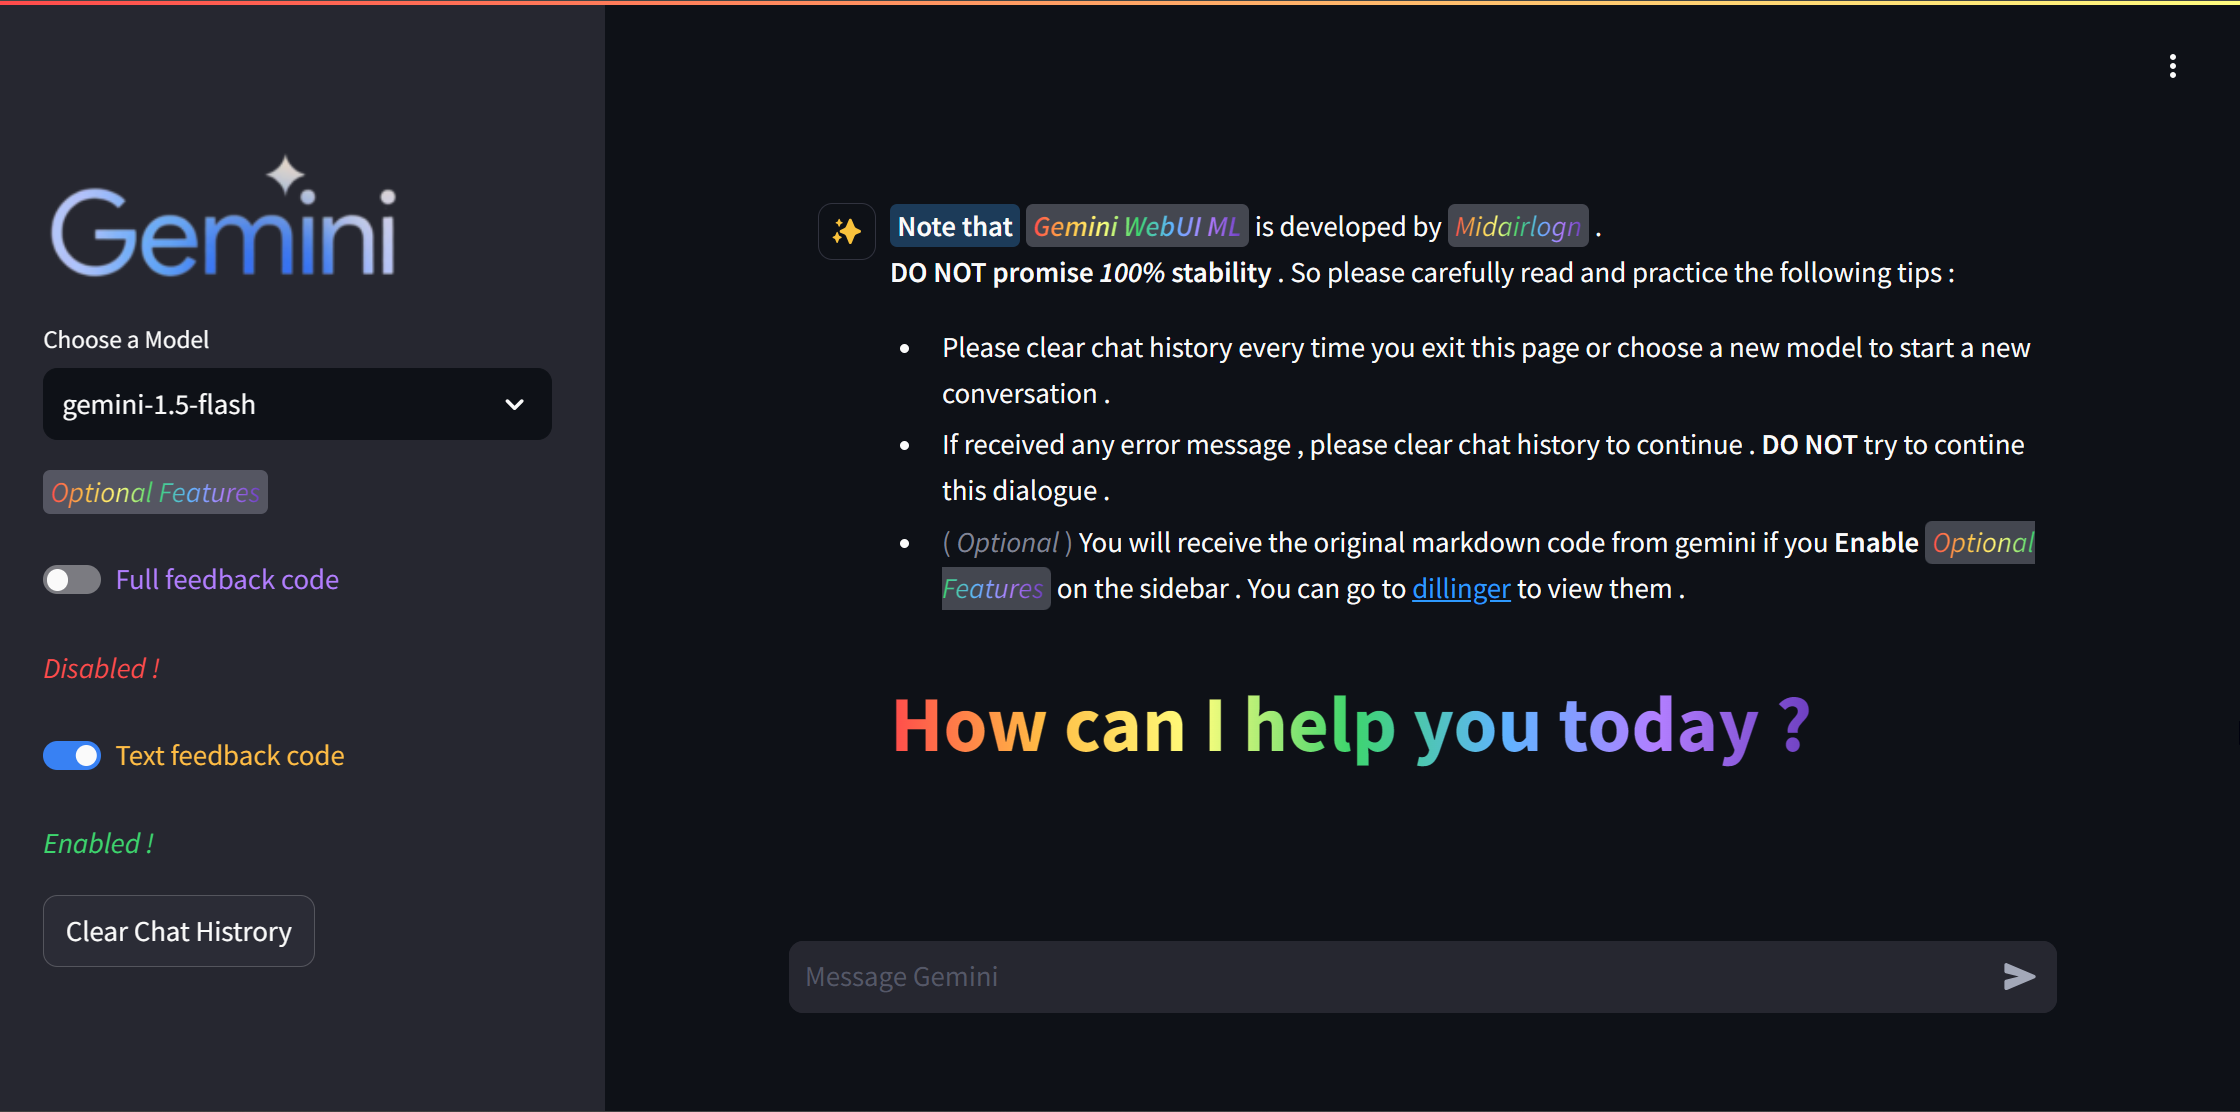
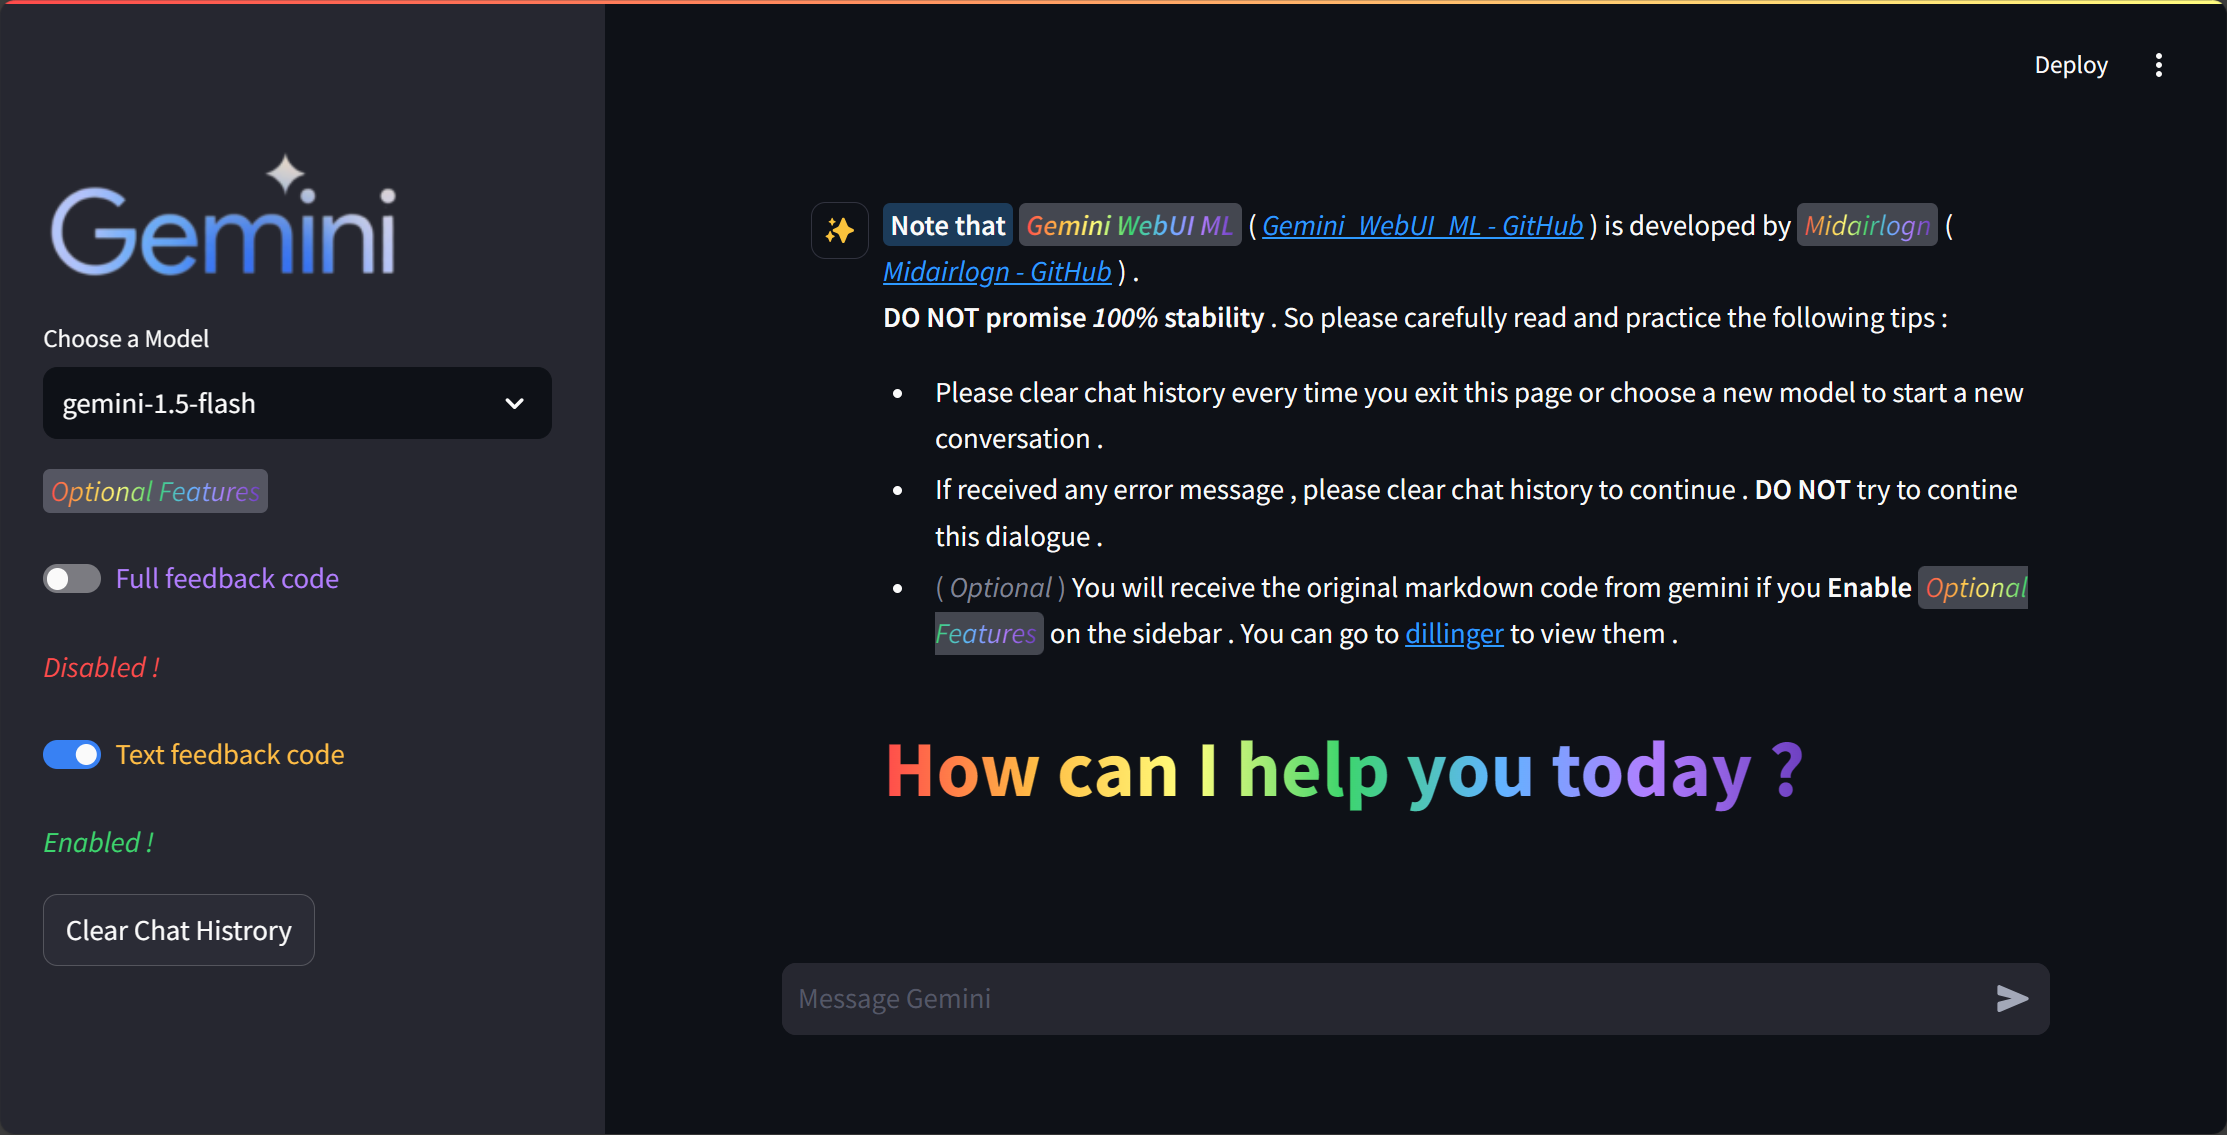
Add files via upload

diff --git a/web_chat_ml.py b/web_chat_ml.py
@@ -1,0 +1,107 @@
+# Edited and polished by [Midairlogn](https://github.com/midairlogn) .
+
+
+import os
+import io
+import streamlit as st
+import google.generativeai as genai
+from dotenv import load_dotenv
+
+load_dotenv()
+
+mldefult_initial_prompt = ''' :blue-background[ **Note that** ] :grey-background[ :rainbow[ **_Gemini WebUI ML_** ] ] ( [*Gemini_WebUI_ML - GitHub*](https://github.com/midairlogn/Gemini_WebUI_ML "Gemini_WebUI_ML - GitHub") ) is developed by :grey-background[ :rainbow[ *Midairlogn* ] ] ( [*Midairlogn - GitHub*](https://github.com/midairlogn "Midairlogn - GitHub") ) .   
+    **DO NOT promise *100%* stability** . So please carefully read and practice the following tips :  
+    - Please clear chat history every time you exit this page or choose a new model to start a new conversation .  
+    - If received any error message , please clear chat history to continue . **DO NOT** try to contine this dialogue .   
+    - :grey[ ( *Optional* ) ] You will receive the original markdown code from gemini if you **Enable** :grey-background[ :rainbow[ *Optional Features* ] ] on the sidebar . You can go to [dillinger](https://dillinger.io/ "dillinger") to view them .   
+    
+    # :rainbow[ How can I help you today ? ]   '''
+
+mldefult_full_opt_status = False
+mldefult_text_opt_status = True
+
+#sets the avatar for user as well as the bot
+USER_AVATAR = "👤"
+BOT_AVATAR = "✨"
+image_path = "Google-Gemini-AI-Logo.png"
+
+
+#private key for gemini.
+private_key = os.getenv("GOOGLE_API_KEY")
+genai.configure(api_key=private_key)
+
+
+#conifgs the bar 
+st.set_page_config(
+    page_title = "Gemini WebUI ML",
+    page_icon=":sparkle",
+    layout="centered"
+)
+
+#side bar components
+with st.sidebar:
+    st.image(image_path , width = 200)
+    select_model = st.sidebar.selectbox('Choose a Model' , ['gemini-1.5-flash' , 'gemini-1.5-pro' , 'gemini-1.0-pro' , 'gemini-pro' , 'gemini-pro-vision'] , key='select_model')
+    if select_model == 'gemini-1.5-flash':
+        model = genai.GenerativeModel('gemini-1.5-flash')
+    if select_model == 'gemini-1.5-pro':
+        model = genai.GenerativeModel('gemini-1.5-pro')
+    if select_model == 'gemini-1.0-pro':
+        model = genai.GenerativeModel('gemini-1.0-pro')
+    if select_model == 'gemini-pro':
+        model = genai.GenerativeModel('gemini-pro')
+    if select_model == 'gemini-pro-vision':
+        model_vision = genai.GenerativeModel('gemini-pro-vision')
+
+with st.sidebar:
+    st.markdown(" :grey-background[ :rainbow[ *Optional Features* ] ] ")
+    full_opt = st.toggle(":violet[ Full feedback code ]",value = mldefult_full_opt_status )
+    if ( full_opt ):
+        st.markdown(" :green[ *Enabled !* ] ")
+    else :
+        st.markdown(" :red[ *Disabled !* ] ")
+    text_opt = st.toggle(":orange[ Text feedback code ]",value = mldefult_text_opt_status )
+    if ( text_opt ):
+        st.markdown(" :green[ *Enabled !* ] ")
+    else :
+        st.markdown(" :red[ *Disabled !* ] ")
+
+#role swap after every prompt
+def role_swap(user_role):
+    if user_role == "model":
+        return "assistant"
+    else:
+        return user_role
+
+#initialising chat.
+if "chat_session" not in st.session_state:
+    st.session_state.chat_session = model.start_chat(history=[])
+    initial_prompt = mldefult_initial_prompt
+    st.chat_message("assistant" , avatar = BOT_AVATAR).markdown(initial_prompt)
+
+#clearing the chat history
+def clear_chat():
+    initial_prompt = mldefult_initial_prompt
+    st.session_state.chat_session = model.start_chat(history=[])
+    st.chat_message("assistant" , avatar = BOT_AVATAR).markdown(initial_prompt)
+st.sidebar.button('Clear Chat Histrory',on_click=clear_chat) 
+
+#displays the history accordingly
+for message in st.session_state.chat_session.history:
+    with st.chat_message(role_swap(message.role),avatar=BOT_AVATAR if message.role == "model" else USER_AVATAR):
+         st.markdown(message.parts[0].text)
+
+#main prompt logic.
+user_prompt = st.chat_input("Message Gemini")
+if user_prompt:
+    st.chat_message("user",avatar=USER_AVATAR).markdown(user_prompt)
+    gemini_response = st.session_state.chat_session.send_message(user_prompt)
+    with st.chat_message("assistant",avatar=BOT_AVATAR):
+        if ( full_opt ):  
+            st.markdown(" :grey-background[ :rainbow[ *Optional Features :* ] ] :violet[ Full feedback code : ] ")
+            st.code(gemini_response , language='markdown')
+        if ( text_opt ):
+            st.markdown(" :grey-background[ :rainbow[ *Optional Features :* ] ] :orange[ Text feedback code : ] ")
+            st.code(gemini_response.text , language='markdown')
+        st.markdown(" :grey-background[ :rainbow[ Gemini's **text** feedback ( *Markdown On* ) ] ] ")
+        st.markdown(gemini_response.text)

diff --git a/README.md b/README.md
@@ -1,0 +1,66 @@
+
+# ✨Gemini-WebUI-ML✨
+
+Original code : https://github.com/lgsurith/Gemini_Web_UI  
+
+Edited and polished by [*Midairlogn*](https://github.com/midairlogn) .
+
+This captivating Streamlit application harnesses the power of Gemini's API key to forge an immersive chatbot that elevates user interactions to new heights. Its intuitive interface empowers users to engage in natural, free-flowing conversations with the chatbot, leveraging Gemini's robust natural language processing capabilities.
+
+Through the seamless integration of Gemini's API key, the chatbot boasts an unparalleled knowledge base and the remarkable ability to engage in meaningful conversations. It effortlessly answers user queries, provides factual information, offers assistance, or simply engages in casual banter, mimicking human-like interactions.
+
+## Preparation : Gemini's API key
+
+To replicate the project in local host you must obtain a gemini api key from the follwing website [here](https://ai.google.dev/) and include them in the .env as shown in the .env-example.    
+    
+And make sure that Gemini is supported in your region .  
+
+**DO keep your API Key private . DO NOT share it with others !**
+
+
+## Set up ( Requirements ) 
+
+```
+  pip install -r requirements.txt
+```
+
+* google-generativeai
+* streamlit
+* python-dotenv
+
+## Launch
+
+#### Just type :  
+```
+streamlit run web_chat_ml.py
+```
+#### On Windows , you can also 
+* run `launch.bat`
+
+
+## Supported gemini models
+- [x] gemini-1.5-flash
+- [x] gemini-1.5-pro
+- [x] gemini-1.0-pro
+- [x] gemini-pro
+- [x] gemini-pro-vision
+
+## Supported input
+- [x] text
+- [ ] image
+- [ ] video
+- [ ] pdf 
+- [ ] others
+
+## Supported output
+- [x] text
+- [ ] image
+- [ ] video
+- [ ] pdf 
+- [ ] others
+- [x] ( If you enable *Optional Features* ) Gemini's feedback code
+
+
+## Screenshot
+[Screenshot.png](https://raw.githubusercontent.com/midairlogn/Gemini_WebUI_ML/main/screenshot.png?token=GHSAT0AAAAAACUPGT3JKCOQOFQWQVCVCZ6OZUHSEUA)
+
